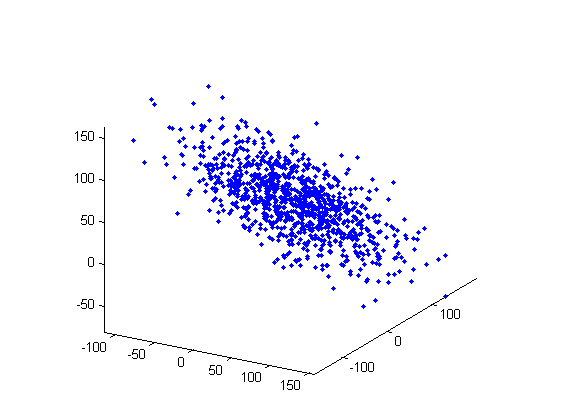
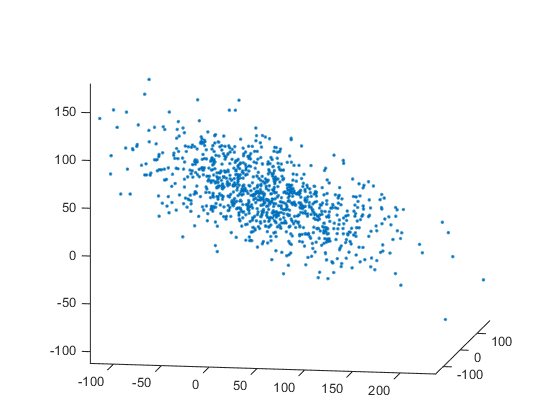
demos/geom3d/demoInertiaEllipsoid.m: update demo to display also ellipses and axes

diff --git a/demos/geom3d/html/demoInertiaEllipsoid.html b/demos/geom3d/html/demoInertiaEllipsoid.html
@@ -4,65 +4,69 @@
 <html><head>
       <meta http-equiv="Content-Type" content="text/html; charset=utf-8">
    <!--
-This HTML is auto-generated from an M-file.
-To make changes, update the M-file and republish this document.
-      --><title>demoInertiaEllipsoid</title><meta name="generator" content="MATLAB 7.9"><meta name="date" content="2012-04-05"><meta name="m-file" content="demoInertiaEllipsoid"><style type="text/css">
+This HTML was auto-generated from MATLAB code.
+To make changes, update the MATLAB code and republish this document.
+      --><title>demoInertiaEllipsoid</title><meta name="generator" content="MATLAB 8.4"><link rel="schema.DC" href="http://purl.org/dc/elements/1.1/"><meta name="DC.date" content="2015-04-20"><meta name="DC.source" content="demoInertiaEllipsoid.m"><style type="text/css">
+html,body,div,span,applet,object,iframe,h1,h2,h3,h4,h5,h6,p,blockquote,pre,a,abbr,acronym,address,big,cite,code,del,dfn,em,font,img,ins,kbd,q,s,samp,small,strike,strong,sub,sup,tt,var,b,u,i,center,dl,dt,dd,ol,ul,li,fieldset,form,label,legend,table,caption,tbody,tfoot,thead,tr,th,td{margin:0;padding:0;border:0;outline:0;font-size:100%;vertical-align:baseline;background:transparent}body{line-height:1}ol,ul{list-style:none}blockquote,q{quotes:none}blockquote:before,blockquote:after,q:before,q:after{content:'';content:none}:focus{outine:0}ins{text-decoration:none}del{text-decoration:line-through}table{border-collapse:collapse;border-spacing:0}
 
-body {
-  background-color: white;
-  margin:10px;
-}
+html { min-height:100%; margin-bottom:1px; }
+html body { height:100%; margin:0px; font-family:Arial, Helvetica, sans-serif; font-size:10px; color:#000; line-height:140%; background:#fff none; overflow-y:scroll; }
+html body td { vertical-align:top; text-align:left; }
 
-h1 {
-  color: #990000; 
-  font-size: x-large;
-}
+h1 { padding:0px; margin:0px 0px 25px; font-family:Arial, Helvetica, sans-serif; font-size:1.5em; color:#d55000; line-height:100%; font-weight:normal; }
+h2 { padding:0px; margin:0px 0px 8px; font-family:Arial, Helvetica, sans-serif; font-size:1.2em; color:#000; font-weight:bold; line-height:140%; border-bottom:1px solid #d6d4d4; display:block; }
+h3 { padding:0px; margin:0px 0px 5px; font-family:Arial, Helvetica, sans-serif; font-size:1.1em; color:#000; font-weight:bold; line-height:140%; }
 
-h2 {
-  color: #990000;
-  font-size: medium;
-}
+a { color:#005fce; text-decoration:none; }
+a:hover { color:#005fce; text-decoration:underline; }
+a:visited { color:#004aa0; text-decoration:none; }
 
-/* Make the text shrink to fit narrow windows, but not stretch too far in 
-wide windows. */ 
-p,h1,h2,div.content div {
-  max-width: 600px;
-  /* Hack for IE6 */
-  width: auto !important; width: 600px;
-}
+p { padding:0px; margin:0px 0px 20px; }
+img { padding:0px; margin:0px 0px 20px; border:none; }
+p img, pre img, tt img, li img, h1 img, h2 img { margin-bottom:0px; } 
 
-pre.codeinput {
-  background: #EEEEEE;
-  padding: 10px;
-}
-@media print {
-  pre.codeinput {word-wrap:break-word; width:100%;}
-} 
+ul { padding:0px; margin:0px 0px 20px 23px; list-style:square; }
+ul li { padding:0px; margin:0px 0px 7px 0px; }
+ul li ul { padding:5px 0px 0px; margin:0px 0px 7px 23px; }
+ul li ol li { list-style:decimal; }
+ol { padding:0px; margin:0px 0px 20px 0px; list-style:decimal; }
+ol li { padding:0px; margin:0px 0px 7px 23px; list-style-type:decimal; }
+ol li ol { padding:5px 0px 0px; margin:0px 0px 7px 0px; }
+ol li ol li { list-style-type:lower-alpha; }
+ol li ul { padding-top:7px; }
+ol li ul li { list-style:square; }
 
-span.keyword {color: #0000FF}
-span.comment {color: #228B22}
-span.string {color: #A020F0}
-span.untermstring {color: #B20000}
-span.syscmd {color: #B28C00}
+.content { font-size:1.2em; line-height:140%; padding: 20px; }
 
-pre.codeoutput {
-  color: #666666;
-  padding: 10px;
-}
+pre, code { font-size:12px; }
+tt { font-size: 1.2em; }
+pre { margin:0px 0px 20px; }
+pre.codeinput { padding:10px; border:1px solid #d3d3d3; background:#f7f7f7; }
+pre.codeoutput { padding:10px 11px; margin:0px 0px 20px; color:#4c4c4c; }
+pre.error { color:red; }
 
-pre.error {
-  color: red;
-}
+@media print { pre.codeinput, pre.codeoutput { word-wrap:break-word; width:100%; } }
 
-p.footer {
-  text-align: right;
-  font-size: xx-small;
-  font-weight: lighter;
-  font-style: italic;
-  color: gray;
-}
+span.keyword { color:#0000FF }
+span.comment { color:#228B22 }
+span.string { color:#A020F0 }
+span.untermstring { color:#B20000 }
+span.syscmd { color:#B28C00 }
 
-  </style></head><body><div class="content"><h2>Contents</h2><div><ul><li><a href="#3">Data generation</a></li><li><a href="#4">Inertia ellipsoid computation and display</a></li></ul></div><pre class="codeinput"><span class="keyword">function</span> demoInertiaEllipsoid(varargin)
+.footer { width:auto; padding:10px 0px; margin:25px 0px 0px; border-top:1px dotted #878787; font-size:0.8em; line-height:140%; font-style:italic; color:#878787; text-align:left; float:none; }
+.footer p { margin:0px; }
+.footer a { color:#878787; }
+.footer a:hover { color:#878787; text-decoration:underline; }
+.footer a:visited { color:#878787; }
+
+table th { padding:7px 5px; text-align:left; vertical-align:middle; border: 1px solid #d6d4d4; font-weight:bold; }
+table td { padding:7px 5px; text-align:left; vertical-align:top; border:1px solid #d6d4d4; }
+
+
+
+
+
+  </style></head><body><div class="content"><h2>Contents</h2><div><ul><li><a href="#3">Data generation</a></li><li><a href="#4">Inertia ellipsoid computation and display</a></li><li><a href="#5">Add ellipses and main axes</a></li></ul></div><pre class="codeinput"><span class="keyword">function</span> demoInertiaEllipsoid(varargin)
 </pre><pre class="codeinput"><span class="comment">%DEMOINERTIAELLIPSOID Demo program for the use of ellipsoids</span>
 <span class="comment">%</span>
 <span class="comment">%   Usage:</span>
@@ -100,14 +104,16 @@ figure;
 drawPoint3d(points, <span class="string">'.'</span>);
 hold <span class="string">on</span>;
 axis <span class="string">equal</span>;
-view([30 20]);
+view([80 -10]);
 </pre><img vspace="5" hspace="5" src="demoInertiaEllipsoid_01.png" alt=""> <h2>Inertia ellipsoid computation and display<a name="4"></a></h2><pre class="codeinput"><span class="comment">% Fit a 3D inertia ellipsoid to data</span>
 elli = inertiaEllipsoid(points);
 
 <span class="comment">% draw the ellipsoid with transparency</span>
-drawEllipsoid(elli, <span class="string">'FaceColor'</span>, <span class="string">'g'</span>, <span class="string">'FaceAlpha'</span>, .3);
-</pre><img vspace="5" hspace="5" src="demoInertiaEllipsoid_02.png" alt=""> <p class="footer"><br>
-      Published with MATLAB&reg; 7.9<br></p></div><!--
+drawEllipsoid(elli, <span class="string">'FaceColor'</span>, <span class="string">'g'</span>, <span class="string">'FaceAlpha'</span>, .5);
+</pre><img vspace="5" hspace="5" src="demoInertiaEllipsoid_02.png" alt=""> <h2>Add ellipses and main axes<a name="5"></a></h2><pre class="codeinput">drawEllipsoid(elli, <span class="string">'FaceColor'</span>, <span class="string">'g'</span>, <span class="string">'FaceAlpha'</span>, .5, <span class="keyword">...</span>
+          <span class="string">'drawEllipses'</span>, true, <span class="string">'EllipseColor'</span>, <span class="string">'b'</span>, <span class="string">'EllipseWidth'</span>, 2, <span class="keyword">...</span>
+          <span class="string">'drawAxes'</span>, true);
+</pre><img vspace="5" hspace="5" src="demoInertiaEllipsoid_03.png" alt=""> <p class="footer"><br><a href="http://www.mathworks.com/products/matlab/">Published with MATLAB&reg; R2014b</a><br></p></div><!--
 ##### SOURCE BEGIN #####
 function demoInertiaEllipsoid(varargin)
 %DEMOINERTIAELLIPSOID Demo program for the use of ellipsoids
@@ -151,7 +157,7 @@ figure;
 drawPoint3d(points, '.');
 hold on;
 axis equal;
-view([30 20]);
+view([80 -10]);
 
 
 %% Inertia ellipsoid computation and display
@@ -160,8 +166,14 @@ view([30 20]);
 elli = inertiaEllipsoid(points);
 
 % draw the ellipsoid with transparency
-drawEllipsoid(elli, 'FaceColor', 'g', 'FaceAlpha', .3);
+drawEllipsoid(elli, 'FaceColor', 'g', 'FaceAlpha', .5);
 
 
+%% Add ellipses and main axes
+
+drawEllipsoid(elli, 'FaceColor', 'g', 'FaceAlpha', .5, ...
+          'drawEllipses', true, 'EllipseColor', 'b', 'EllipseWidth', 2, ...
+          'drawAxes', true);
+      
 ##### SOURCE END #####
 --></body></html>

diff --git a/demos/geom3d/demoInertiaEllipsoid.m b/demos/geom3d/demoInertiaEllipsoid.m
@@ -40,7 +40,7 @@ figure;
 drawPoint3d(points, '.');
 hold on;
 axis equal;
-view([30 20]);
+view([80 -10]);
 
 
 %% Inertia ellipsoid computation and display
@@ -49,5 +49,12 @@ view([30 20]);
 elli = inertiaEllipsoid(points);
 
 % draw the ellipsoid with transparency
-drawEllipsoid(elli, 'FaceColor', 'g', 'FaceAlpha', .3);
+drawEllipsoid(elli, 'FaceColor', 'g', 'FaceAlpha', .5);
 
+
+%% Add ellipses and main axes
+
+drawEllipsoid(elli, 'FaceColor', 'g', 'FaceAlpha', .5, ...
+          'drawEllipses', true, 'EllipseColor', 'b', 'EllipseWidth', 2, ...
+          'drawAxes', true);
+      
